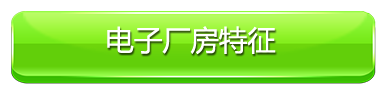
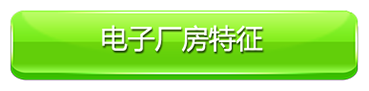
update

diff --git a/css/app.css b/css/app.css
@@ -1899,8 +1899,8 @@
 
 .layer-3 {
     position: absolute;
-    top: -113px;
-    left: 3px;
+    top: -114px;
+    left: -4px;
     z-index: 1112
 }
 
